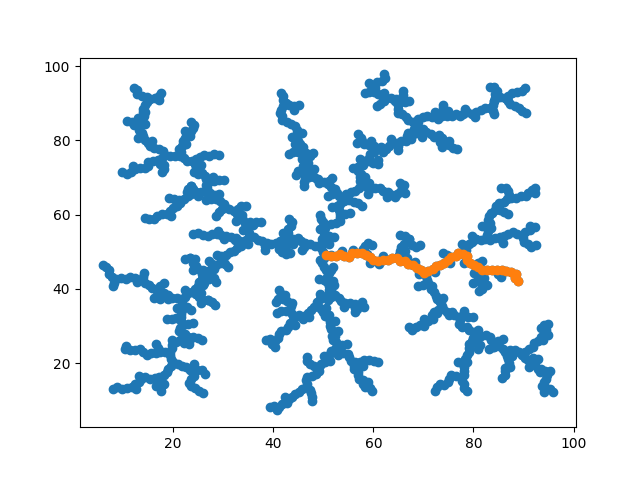
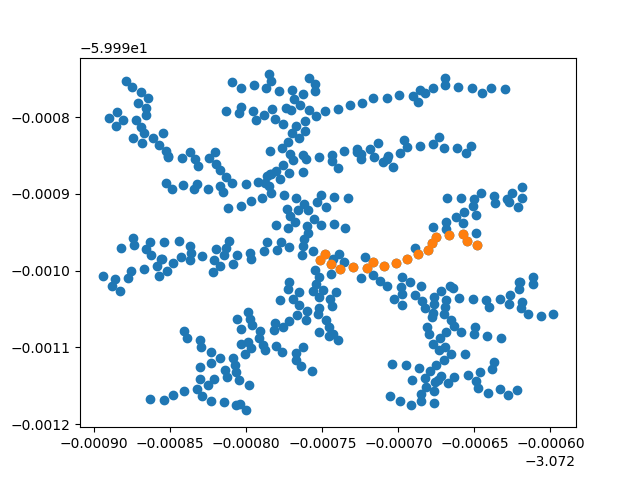
New methods to RRT for GPS localization and takeoff_land test added

diff --git a/rrt.py b/rrt.py
@@ -2,13 +2,16 @@ import random
 import math
 import matplotlib.pyplot as plt
 import datetime
-
+from geopy.distance import great_circle
 
 class RRT:
     def __init__(self):
-        self.start = [50, 50, 0]
-        self.arrival = [88, 42]
-        self.map_dimensions = [100, 100]
+        # self.start = [50, 50, 0]
+        self.start = [-3.072756, -59.990974, 0]
+        # self.arrival = [88, 42]
+        self.arrival = [-3.072650, -59.990975]
+        # self.map_dimensions = [[0, 0], [100, 100]]
+        self.map_dimensions = [[-3.072913, -59.991215], [-3.072578, -59.990712]]
         self.states = []
         self.states.append(self.start)
         self.generation_start_time = datetime.datetime.now()
@@ -20,7 +23,8 @@ class RRT:
         Generate a new state in a given dimensions for a space
         :return:
         """
-        random_point = [random.randint(0, self.map_dimensions[0]), random.randint(0, self.map_dimensions[1])]
+        random_point = [random.uniform(self.map_dimensions[0][0], self.map_dimensions[1][0]),
+                        random.uniform(self.map_dimensions[0][1], self.map_dimensions[1][1])]
         return random_point
 
     def nearest_neighbor(self, random_point):
@@ -50,7 +54,8 @@ class RRT:
         """
         try:
             vector = [final_point[0] - initial_point[0], final_point[1] - initial_point[1]]
-            vector_sqrt = math.sqrt(math.pow(vector[0], 2) + math.pow(vector[1], 2))
+            initial_point_coordinates = [initial_point[0], initial_point[1]]
+            vector_sqrt = great_circle(final_point, initial_point_coordinates).meters
             vector_normalized = [vector[0] / vector_sqrt, vector[1] / vector_sqrt]
             return vector_normalized
         except ZeroDivisionError:
@@ -74,8 +79,9 @@ class RRT:
         :param point:
         :return:
         """
-        circle_equation = math.pow(point[0] - self.arrival[0], 2) + math.pow(point[1] - self.arrival[1], 2)
-        if circle_equation <= 1:
+        node = [point[0], point[1]]
+        distance = great_circle(self.arrival, node).meters
+        if distance <= 1:
             return True
         else:
             return False
@@ -102,8 +108,8 @@ class RRT:
 
     def get_path(self):
         """
-            Get path from point A to B using RRT algorithm
-            """
+        Get path from point A to B using RRT algorithm
+        """
         final_point = [self.states[-1][0], self.states[-1][1]]
         path_points = [final_point]
         point_parent = self.states[-1][2]

diff --git a/arm_and_takeoff_test.py b/arm_and_takeoff_test.py
@@ -1,7 +1,13 @@
-# Connect to the Vehicle (in this case a simulator running the same computer)
 import time
 from dronekit import connect, VehicleMode
 from constants import PIXHAWK_ADDRESS
+import logging
+from datetime import datetime
+
+today = f'{datetime.now().date()}_{datetime.now().hour}_{datetime.now().minute}'
+
+logging.basicConfig(format='[%(asctime)s] %(message)s', datefmt='%d-%m-%Y %H:%M:%S',
+                    filename=f'marvin_{today}.log', encoding='utf-8', level=logging.DEBUG)
 
 vehicle = connect(PIXHAWK_ADDRESS, wait_ready=True)
 
@@ -12,12 +18,15 @@ def arm_and_takeoff(aTargetAltitude):
     """
 
     print("Basic pre-arm checks")
+    logging.info("Basic pre-arm checks")
     # Don't try to arm until autopilot is ready
     while not vehicle.is_armable:
         print(" Waiting for vehicle )to initialise...")
+        logging.info(" Waiting for vehicle )to initialise...")
         time.sleep(1)
 
     print("Arming motors")
+    logging.info("Arming motors")
     # Copter should arm in GUIDED mode
     vehicle.mode = VehicleMode("GUIDED")
     vehicle.armed = True
@@ -25,20 +34,32 @@ def arm_and_takeoff(aTargetAltitude):
     # Confirm vehicle armed before attempting to take off
     while not vehicle.armed:
         print(" Waiting for arming...")
+        logging.info(" Waiting for arming...")
         time.sleep(1)
 
     print("Taking off!")
+    logging.info("Taking off!")
     vehicle.simple_takeoff(aTargetAltitude)  # Take off to target altitude
 
     # Wait until the vehicle reaches a safe height before processing the goto (otherwise the command
     #  after Vehicle.simple_takeoff will execute immediately).
     while True:
         print(" Altitude: ", vehicle.location.global_relative_frame.alt)
+        logging.info(" Altitude: ", vehicle.location.global_relative_frame.alt)
         # Break and return from function just below target altitude.
         if vehicle.location.global_relative_frame.alt >= aTargetAltitude * 0.95:
             print("Reached target altitude")
+            logging.info("Reached target altitude")
             break
         time.sleep(1)
+
+    # Attempt to Land
+    print("Preparing to LAND")
+    logging.info("Preparing to LAND")
+    vehicle.mode = VehicleMode("LAND")
+
+    print("End of test")
+    logging.info("End of test")
 
 
 arm_and_takeoff(2)

diff --git a/test_generation_gps_points.py b/test_generation_gps_points.py
@@ -1,0 +1,18 @@
+# import random
+#
+# space_dimensions = [[-3.072665, -59.990999], [-3.072722, -59.990948]]
+#
+# print(random.uniform(space_dimensions[0][0], space_dimensions[1][0]))
+# print(random.uniform(0, 100))
+from geopy.distance import great_circle, geodesic
+import math
+point1 = [-3.072628, -59.991000]
+point2 = [-3.072786, -59.990999]
+norm = great_circle(point2, point1).meters
+print(great_circle(point2, point1).meters)
+vector = [point2[0] - point1[0], point2[1] - point1[1]]
+u = [vector[0]/norm, vector[1]/norm]
+new_point = [point1[0] + u[0], point1[1] + u[1]]
+print(new_point)
+print(great_circle(new_point, point1).meters)
+print(geodesic(point2, point1).m)

diff --git a/logging_example.py b/logging_example.py
@@ -1,0 +1,11 @@
+import logging
+from datetime import datetime
+
+today = f'{datetime.now().date()}_{datetime.now().hour}_{datetime.now().minute}'
+
+logging.basicConfig(format='[%(asctime)s] %(message)s', datefmt='%d-%m-%Y %H:%M:%S',
+                    filename=f'marvin_{today}.log', encoding='utf-8', level=logging.DEBUG)
+logging.debug('This message should go to the log file')
+logging.info('So should this')
+logging.warning('And this, too')
+logging.error('And non-ASCII stuff, too, like Øresund and Malmö')

diff --git a/Examples_Old/README.md b/Examples_Old/README.md
@@ -1,0 +1,32 @@
+# RRT
+
+For more info visit the [blog](https://nimrobotics.github.io/2019/12/23/rrt.html)
+
+**Author(s):** Aakash Yadav
+[![](https://img.shields.io/twitter/follow/nimrobotics.svg?style=social)](https://twitter.com/intent/follow?screen_name=nimrobotics)
+
+# Usage 
+
+See the various CLI options using `python3 rrt.py -h`
+
+Example `python3 rrt.py -selectPoint -p world4.png -s 20`. The flag `-selectPoint` allows to select the start and end points by double clicking, after selecting the two points press <kbd>ESC</kbd>.
+
+# Sample outputs
+
+![RRT sample output 1](samples/out1.jpg)
+
+![RRT sample output 2](samples/out2.jpg)
+
+![RRT sample output 3](samples/out3.jpg)
+
+![RRT sample output 4](samples/out4.jpg)
+
+# License 
+
+MIT
+
+# TODO
+-[] A*
+-[] BFS
+-[] DFS
+-[] Make notebooks
